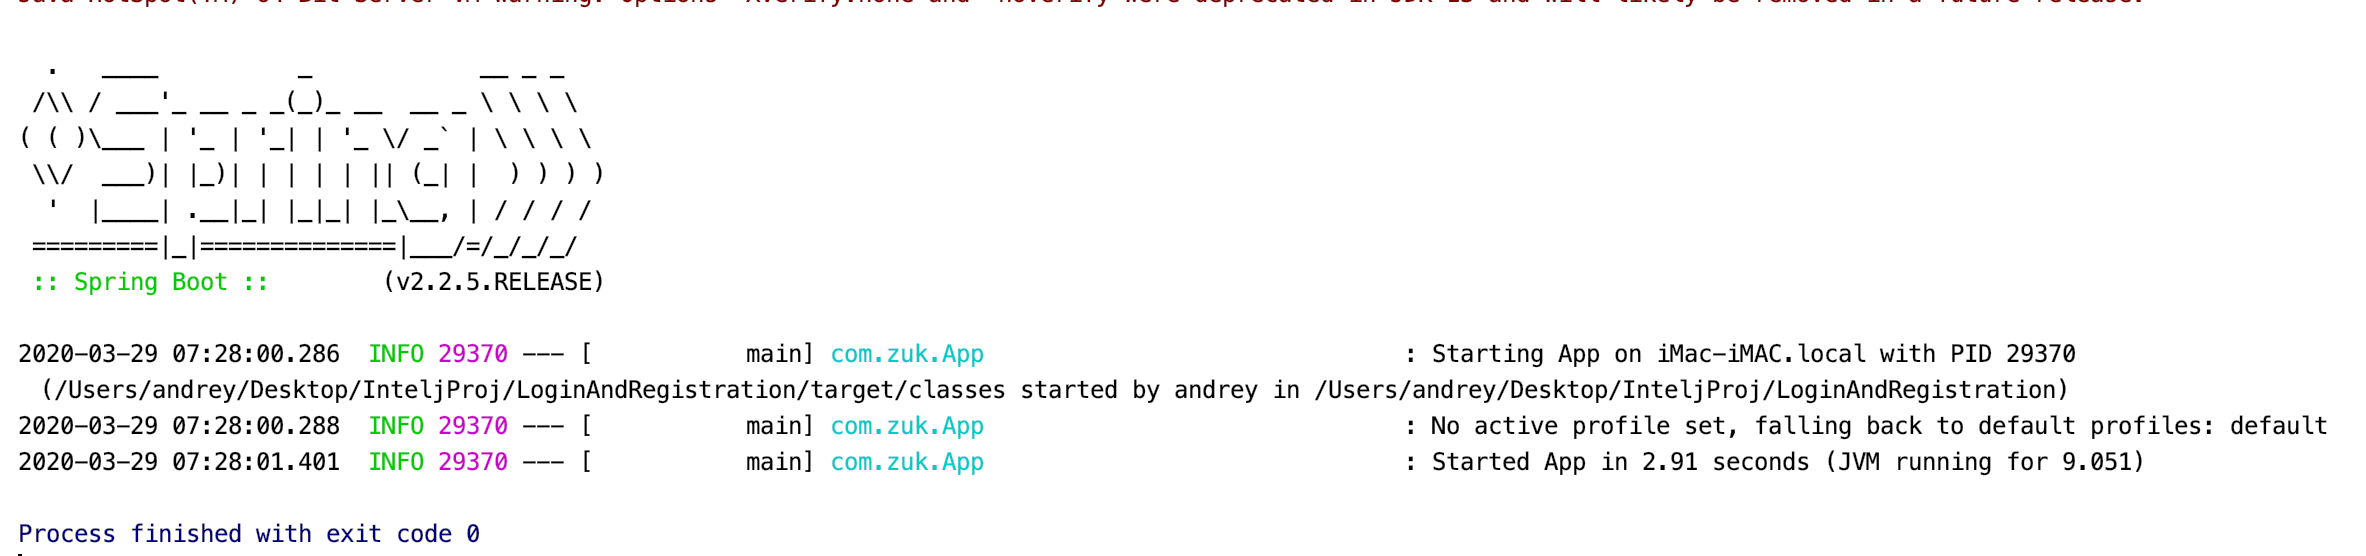
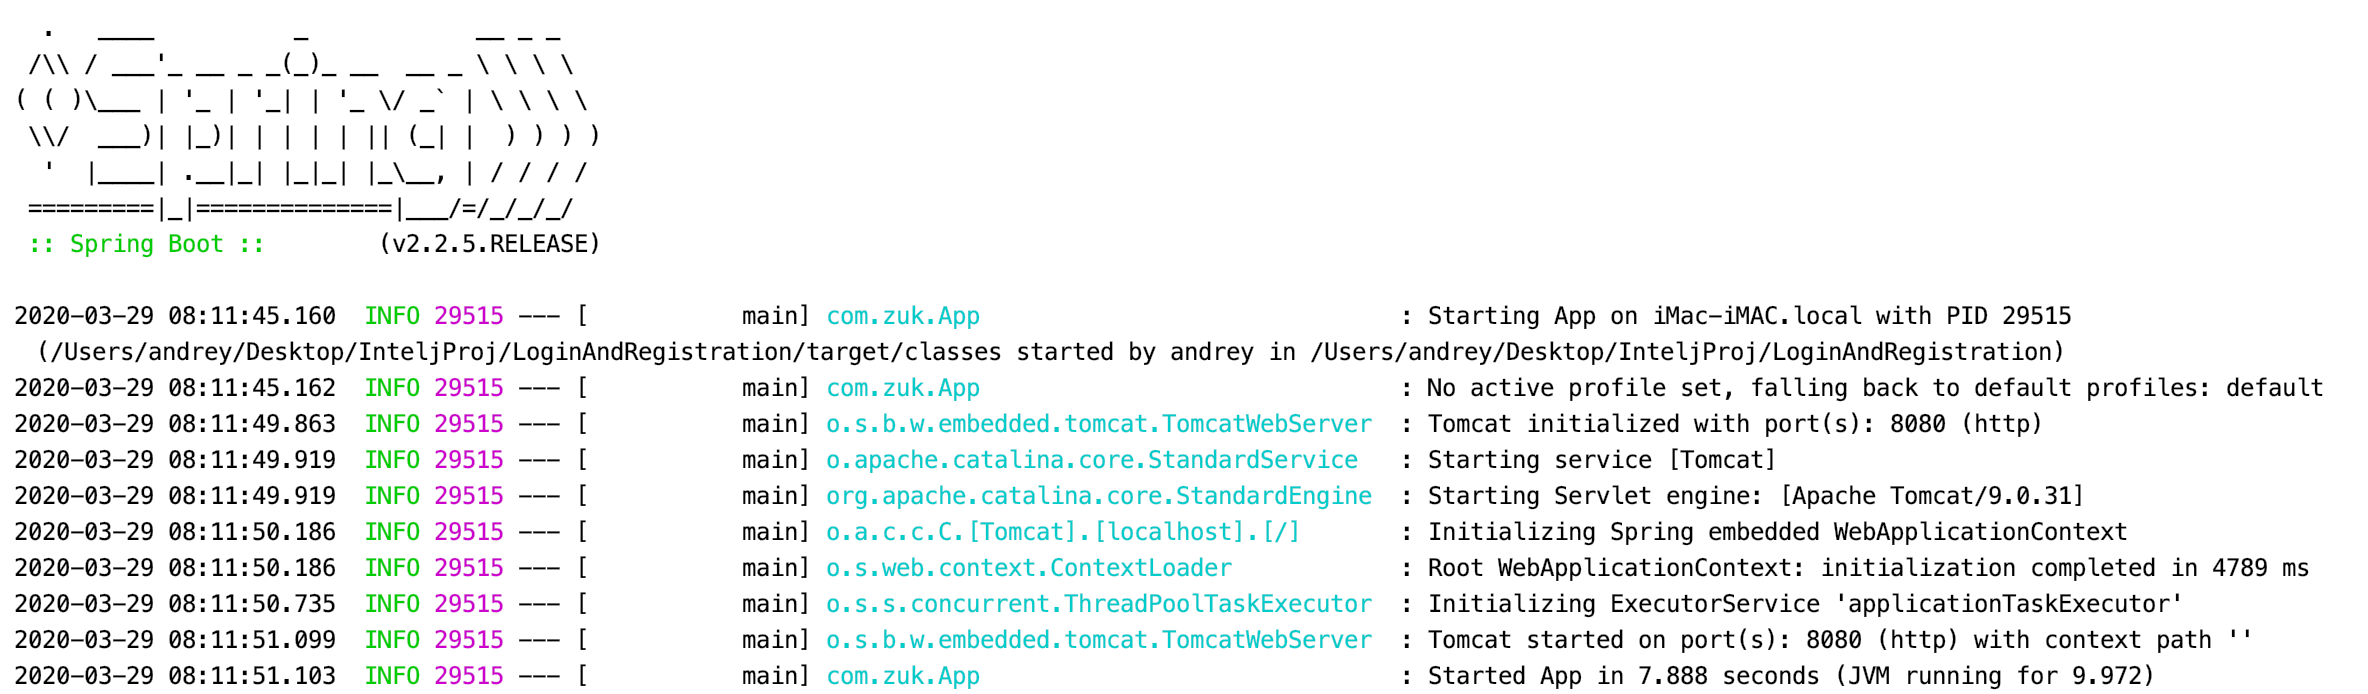
Add application.properties,ConnetionManager

Changed region(s): [[0.0, 0.4281, 0.9873, 1.0], [0.0, 0.0917, 0.2468, 0.3975], [0.0309, 0.0306, 0.0617, 0.0612]]

diff --git a/src/main/java/com/zuk/connection/ConnectionManager.java b/src/main/java/com/zuk/connection/ConnectionManager.java
@@ -1,0 +1,35 @@
+package com.zuk.connection;
+
+import java.io.FileInputStream;
+
+import java.io.IOException;
+import java.sql.Connection;
+import java.sql.DriverManager;
+import java.sql.SQLException;
+import java.util.Properties;
+
+public class ConnectionManager {
+
+        FileInputStream fis;
+        Properties property = new Properties();
+
+        public ConnectionManager(){
+            try {
+                fis = new FileInputStream("src/main/resources/application.properties");
+                property.load(fis);
+            } catch (IOException e) {
+                e.printStackTrace();
+            }
+        }
+
+        public Connection getConnection() {
+            Connection connection = null;
+            try {
+                connection = DriverManager.getConnection(property.getProperty("spring.datasource.url"),property.getProperty("spring.datasource.username"),property.getProperty("spring.datasource.password"));
+            } catch (SQLException e) {
+                e.printStackTrace();
+            }
+            return connection;
+        }
+}
+

diff --git a/src/main/java/com/zuk/App.java b/src/main/java/com/zuk/App.java
@@ -1,5 +1,6 @@
 package com.zuk;
 
+import com.zuk.connection.ConnectionManager;
 import org.springframework.boot.SpringApplication;
 import org.springframework.boot.autoconfigure.SpringBootApplication;
 
@@ -8,6 +9,8 @@ import org.springframework.boot.autoconfigure.SpringBootApplication;
 public class App {
 
     public static void main(String[] args) {
+        ConnectionManager connectionManager = new ConnectionManager();
+        System.out.println(connectionManager.getConnection());
         SpringApplication.run(App.class, args);
     }
 }
